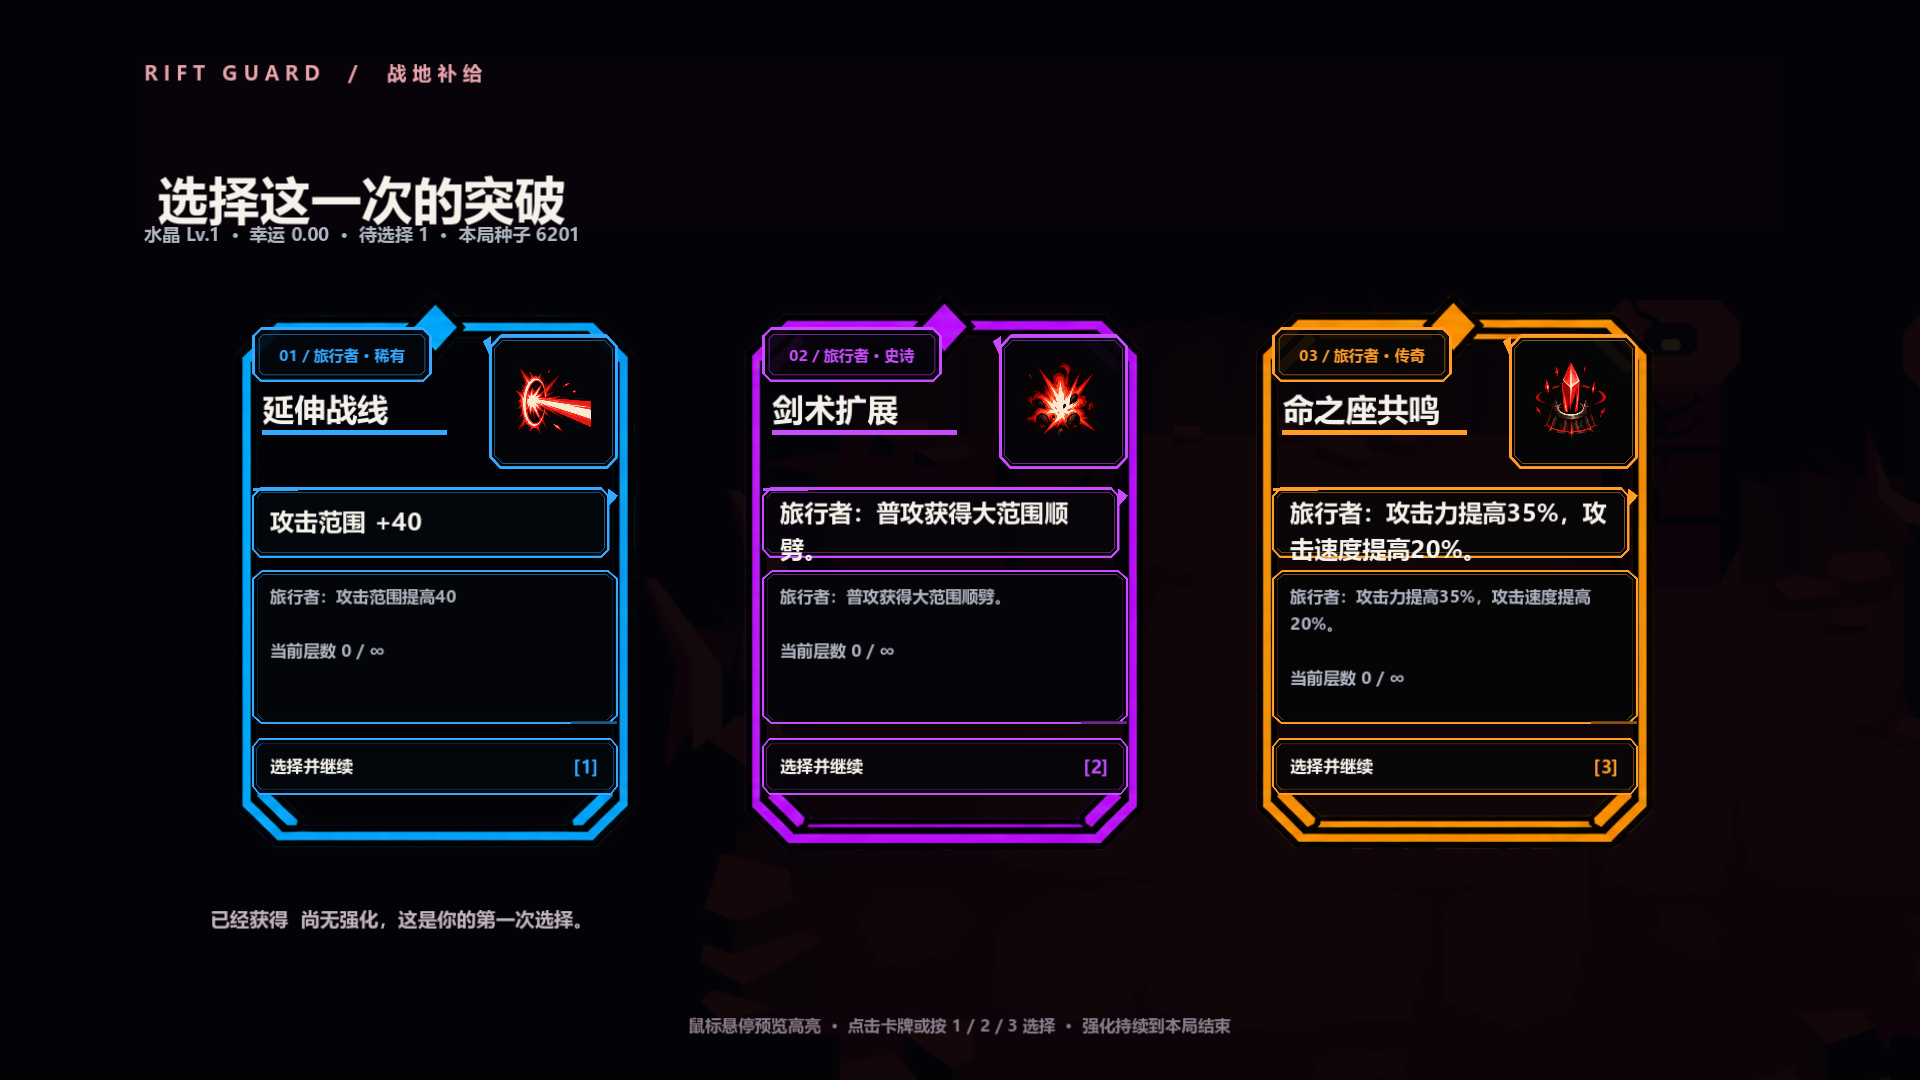
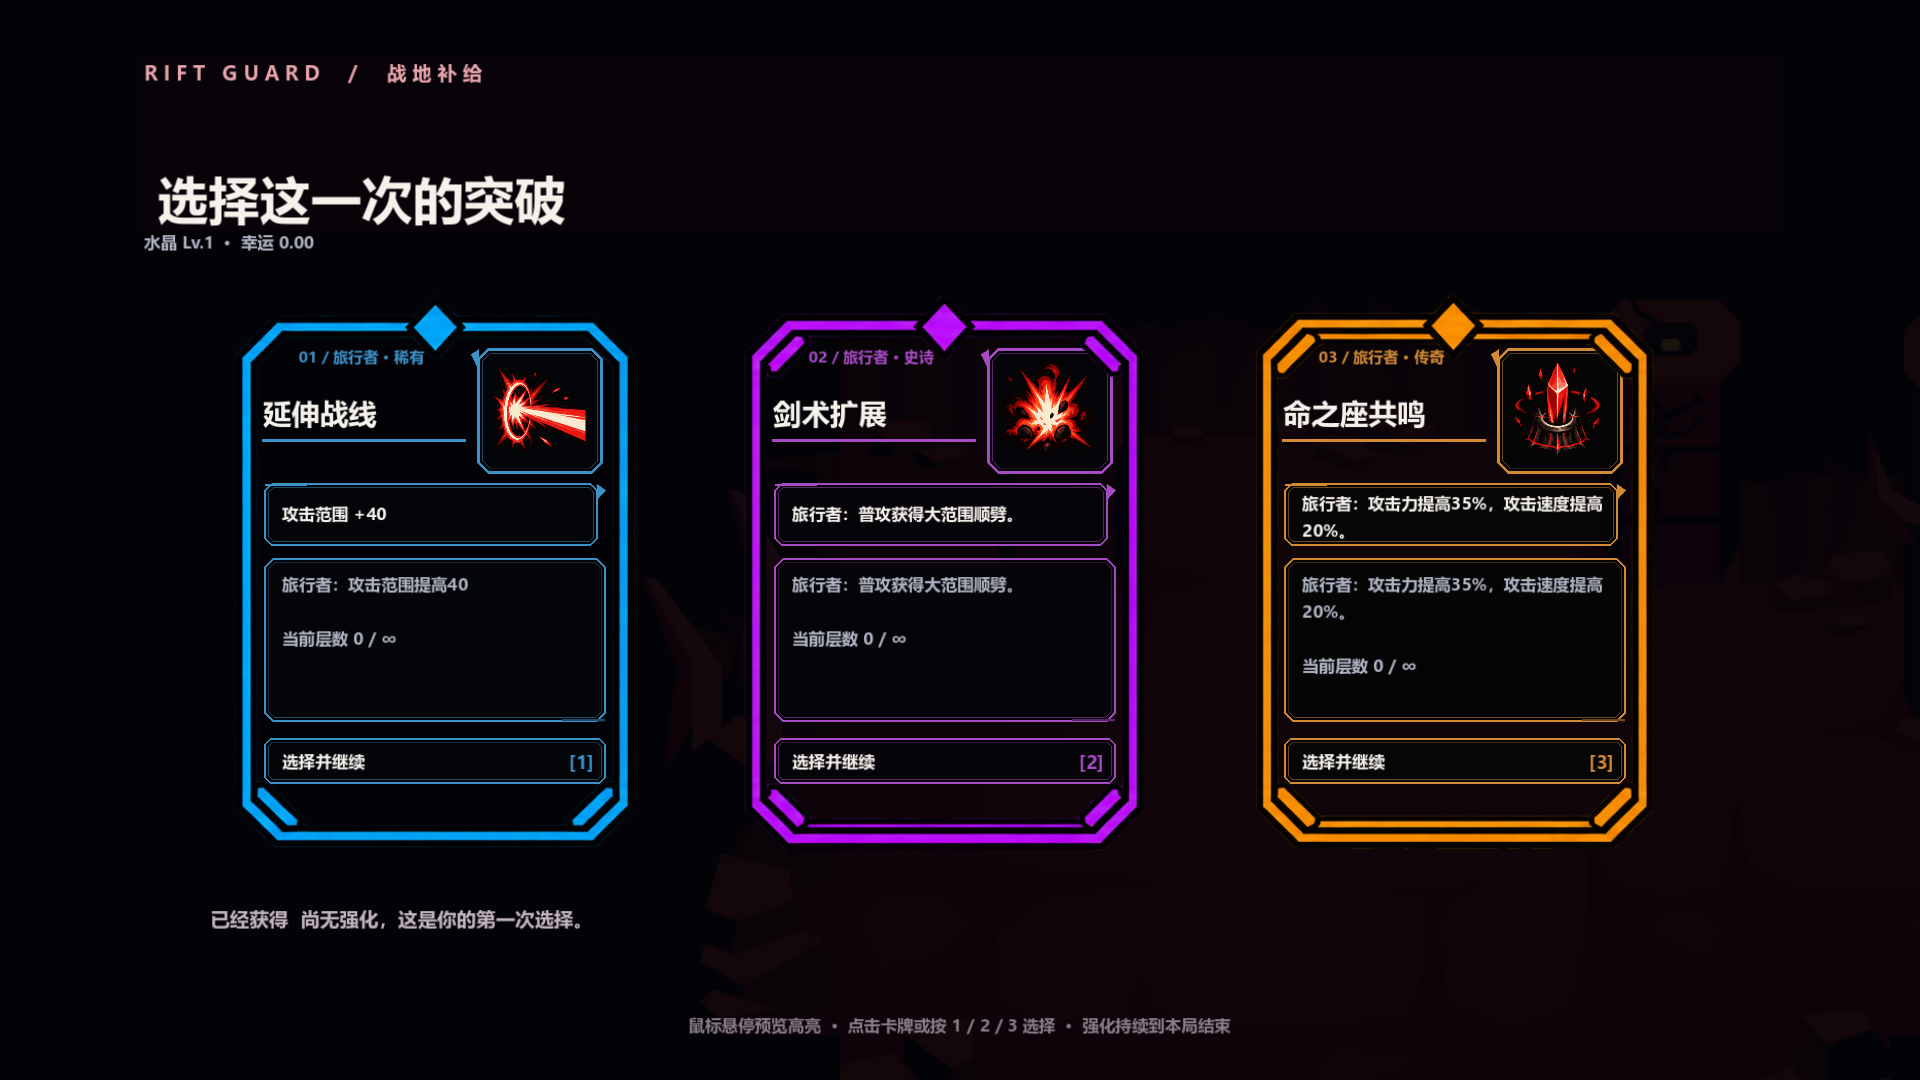
feat: finalize reward UI and lock unfinished characters

diff --git a/README.md b/README.md
@@ -1,238 +1,62 @@
 # 裂隙守望 · Rift Guard
 
-《裂隙守望》是一款多角色路线防守、Roguelike 构筑与分支剧情结合的 2.5D 游戏原型。
+《裂隙守望》是一款将多角色路线防守、Roguelike 构筑与分支剧情结合的 2.5D 动作防守游戏。工程以 Godot 4 制作，运行与验收规格为 1920×1080。
 
-## 当前玩法
+## 当前界面
 
-- 普通模式包含八个关卡，敌人沿多条路线进攻，关卡结束后触发剧情、角色解锁与下一关入口。
-- 无尽模式使用四屏地图，敌人从边缘持续追击，角色随旅行者移动并自动攻击。
-- 每次升级三选一强化，卡牌可无限叠加并形成弹道、召唤、反应、护盾与支援联动。
-- 十三名角色拥有独立主动技能、终结技、能量与冷却，Q/E 支持圆形范围和落点预览。
-- 敌人包含近战、远程、飞行、护盾、增益与史莱姆家族，并配置六名三阶段 Boss。
-- 火、水、雷、冰、风、岩元素参与反应，旅行者可在局内选择元素并通过高阶卡牌获得双元素。
+模式选择、关卡选择、编队、角色档案、剧情和三选一增益已统一为红黑视觉体系。界面素材保持原始宽高比，按钮、卡片与内部信息遵循安全边距。
 
-## V61 Helltaker素材化菜单与角色档案
+![模式选择](docs/v61-validation/01-mode-select.png)
 
-V61将模式、选关、编队和角色档案按指定素材重新绑定：模式卡、关卡卡、检查点、无尽入口和底部按钮均使用对应Helltaker素材及明确的灰/红焦点状态；角色预览保持原始比例，档案页展示十三名角色各自的Q/E效果与数值。
+![关卡选择](docs/v61-validation/02-stage-select.png)
 
-![V61 模式与选关](docs/v61-validation/contact-sheet.jpg)
+![剧情界面](docs/v61-validation/05a-dialogue-booper.png)
 
-- V61发布说明：[V61-RELEASE-NOTES.md](docs/V61-RELEASE-NOTES.md)
-- Windows发布包：`builds/rift-guard-v61/RiftGuard-V61.exe`
+![三选一增益](docs/v62-reward-validation/01-reward-default.png)
 
-## V60 全页面UI与角色详情
+## 角色界面
 
-V60统一重做模式、选关、编队、角色详情、剧情、暂停和战斗底栏。所有主要容器改用等比例或代码绘制的红黑面板，选关缩略图使用真实战斗截图，选角支持滚轮与breath动画详情，剧情改为点击画面推进并加入booper动态提示。
+当前具有正式立绘和动作素材的可用角色为：旅行者、少女、希露菲、芙宁娜、艾米莉亚、丰川祥子、阿米娅。缺少正式立绘或动作素材的角色保持未解锁，旧存档也不会绕过该限制。
 
-![V60 模式选择](docs/v60-validation/01-mode-select.png)
+![角色编队](docs/v61-validation/03-squad-scroll.png)
 
-![V60 角色详情](docs/v60-validation/04-character-detail.png)
+![角色档案](docs/v61-validation/04-character-detail.png)
 
-![V60 剧情推进](docs/v60-validation/05a-dialogue-booper.png)
+## 战斗
 
-- V60发布说明：[V60-RELEASE-NOTES.md](docs/V60-RELEASE-NOTES.md)
-- Windows发布包：`builds/rift-guard-v60/RiftGuard-V60.exe`
-## V59 战斗UI与剧情死亡反馈
+普通模式包含路线防守、可交互地形、Boss 阶段和关卡推进；无尽模式支持四屏地图、动态刷怪、角色独立移动与屏外单位降频模拟。Q/E 技能显示冷却和能量状态，角色普通攻击、技能和元素反应使用独立反馈。
 
-V59 重构了1920×1080战斗界面：顶部压缩为连续状态带，怪物数量改为中央小型徽标，底部改为单层指令台；角色卡、Q/E技能框、选队确认按钮、剧情选项框和Boss警告装饰均保持素材原始比例，不再通过任意宽高拉伸填充。
+![战斗 HUD](docs/v61-validation/06-battle-hud.png)
 
-无尽模式使用8种Helltaker地板模块和Boss契约地板进行确定性拼接，继续沿用石墙与可破坏大门。剧情系统支持在选项中配置`death_reason`：错误选择播放`dialogueDeathExport0001-0009`死亡序列、显示死亡原因，然后返回原来的两个选项。
+![无尽模式地图](docs/v61-validation/08-endless-map.png)
 
-![V59 战斗HUD验收](docs/v59-validation/campaign-compact-counter.png)
+## 地图与怪物
 
-![V59 剧情选项验收](docs/v59-validation/dialogue-choice-frames.png)
+第一关使用蒙德草地、七天神像、高台、沼泽、自动机关和可破坏栅栏；后续关卡保持暗色格子主题。敌人包含史莱姆、丘丘人、弓箭手、萨满、哥布林、哥布林茅房、大型怪物与多阶段 Boss。
 
-- V59发布说明：[V59-RELEASE-NOTES.md](docs/V59-RELEASE-NOTES.md)
-- V59 UI尺寸规范：[V59-UI-SPEC.md](docs/V59-UI-SPEC.md)
-- Windows发布包：`builds/rift-guard-v59/RiftGuard-V59.exe`
-## V58 无尽模式休眠优化与角色战斗差异
+![第一关蒙德地形](docs/v56-validation/stage01-mondstadt-terrain.png)
 
-V58 将屏外普通敌人从逐帧/半帧更新改为 5Hz 粗粒度推进：敌人仍会接近战场，但屏外不再持续执行完整寻路、特殊 AI 和表现事件；弹道目标改为常数时间索引，屏外命中事件在分配特效前直接丢弃。120 个以屏外为主的敌人专项基准降至约 7.28–9.90ms/帧。
+![角色与怪物](docs/v51-validation/new-characters-and-monsters.png)
 
-无尽模式现在只有全队全部阵亡才会结束。三名角色均可独立选择并移动；手动移动非旅行者后会保持其独立目标，只有玩家选中并移动旅行者时，其他角色才恢复延迟跟随。
-
-十三名角色加入差异化普通攻击模板，包括剑气斩、冰晶穿透、风种连锁、水泡溅射、重型潮汐弹、音符回响、术式贯穿、冻结花、量子门、Mon3tr 重击与以太连锁。攻击和命中音量提高，弹道、枪口与命中特效按角色攻击类型分层表现，并继续遵守高密度特效预算。
-
-![V58 战斗特效验收](docs/v58-validation/combat-effects.png)
-
-- V58 发布说明：[V58-RELEASE-NOTES.md](docs/V58-RELEASE-NOTES.md)
-- Windows 发布包：`builds/rift-guard-v58/RiftGuard-V58.exe`
-## V57 第一关地图定稿与无尽模式性能升级
-
-V57 完成第一关蒙德战场的视觉与交互校准：草地和代码网格只覆盖战斗区域，区域外恢复简洁暗色背景；七天神像、高台、自动机关和木栅栏取消不自然的椭圆阴影，七天神像下移并保持血条位置不变；浮空平台移除，两座木栅栏统一为可破坏阻挡物，灌木碰撞改为贴合有效图形的不规则近似区域。
-
-敌人界面移除“空”“远”和无意义的翅膀、横线等装饰，只保留护盾与增益等有战斗意义的标识。无尽模式加入动态人口预算、低阶怪收缩、高阶怪权重增长、分阶段生命与伤害倍率、屏外单位降频模拟、寻路缓存、支援光环降频扫描和屏外特效裁剪；后期通过提高怪物质量形成压力，不再只依靠无限增加低级怪物数量。
-
-![V57 第一关地图验收](docs/v57-map-review/stage01-map-review.png)
-
-- V57 发布说明：[V57-RELEASE-NOTES.md](docs/V57-RELEASE-NOTES.md)
-- V57 历史发布包已由 V58 替换。
-## V56 第一关蒙德战场与地形机制修整
-
-V56 将蒙德素材严格限制在 `stage_01`；`stage_02`、`stage_03` 及后续关卡恢复 V53 的暗色格子渲染和原始地形表现。第一关草地改为不透明地面，网格由代码绘制，蒙德背景只保留为远景层，并通过独立 CanvasItem Shader 统一饱和度、对比度和远景雾化。
-
-七天神像在 V55 基础上放大 1.6 倍并保持脚底锚点；高台、移动平台、灌木、木障碍、自动机关和角色阴影全部重新贴地。两座木障碍均会阻挡角色和地面怪物，可被战技破坏；沼泽减速 28%，高台提供伤害与射程加成，移动平台会承载角色并提供射程强化，自动机关在角色靠近后每 5.5 秒进行一次超远程攻击。
-
-![V56 第一关蒙德地形](docs/v56-validation/stage01-mondstadt-terrain.png)
-
-![V56 第二关原始格子风格](docs/v56-validation/stage02-original-grid.png)
-
-- V56 发布说明：[V56-RELEASE-NOTES.md](docs/V56-RELEASE-NOTES.md)
-- V56 历史发布包已由 V57 替换。
-## V55 战斗顶部 HUD 与第一章地图重构
-
-V55 撤回上一版的全屏地图铺法：蒙德背景和无网格草地只绘制在 `battle_playfield_rect` 战场框内，角色、脚底阴影、地形与碰撞恢复共用原有 2.5D 投影。网格改为代码生成，强度独立于草地素材；风神像核心缩小，高台、洼地、灌木和木障碍重新回到战场层级。
-
-顶部 HUD 重做为一条完整红黑信息带，品牌、等级、经验、元素、幸运、时间、基地、护盾、波次、击退数和状态分区对齐；暂停按钮改为同套红黑样式，怪物数量继续使用中央小徽章，避免遮挡战斗画面。
-
-![V55 战斗 HUD 与地图](docs/v55-validation/chapter1-stage01.png)
-
-- V55 发布说明：[V55-RELEASE-NOTES.md](docs/V55-RELEASE-NOTES.md)
-- V55 历史发布包已由 V56 替换。
-## V54 第一章蒙德地图首轮替换
-
-V54 将第一章 stage_01 至 stage_03 替换为蒙德城郊视觉：远景使用 1920×1080 蒙德背景，32×18 草地网格按素材拼接基准投射为 2.5D 战场，高台、洼地、灌木、木障碍和风神像核心均接入现有碰撞与地形逻辑。第二章与无尽模式保持原样。
-
-战斗顶部同时改用独立 Logo 与九宫格状态条，等级、经验、元素、幸运、时间、基地生命和护盾改为单行显示，怪物数量收进小型居中徽章。
-
-![V54 第一章地图](docs/v54-validation/chapter1-stage01.png)
-
-- V54 发布说明：[V54-RELEASE-NOTES.md](docs/V54-RELEASE-NOTES.md)
-- V54 历史发布包已由 V55 替换。
-## V53 战斗 HUD、Boss 演出与敌人逻辑升级
-
-V53 将顶部三段敌情条收成中央小型敌情牌，队伍生命/能量条完整收进角色卡；Boss 使用更厚的风格化血条、红色场景染色与入场预警演出。近战敌人不再显示攻击范围，丘丘弓箭手射程降低且箭矢飞抵真实落点；高密度特效按空间合并但保留全部伤害，刷怪编队和墙门寻路也已重构。
-
-剧情正文取消打字机，改为整段文字轻微放大后回落；小字与数值改用规整半粗字体，Helltaker 风格装饰字体仅用于大标题、关卡与 Boss。
-
-![V53 紧凑敌情牌](docs/v53-validation/battle-compact-forecast.png)
-
-![V53 Boss 入场](docs/v53-validation/battle-boss-hud.png)
-
-![V53 剧情选项](docs/v53-validation/dialogue-instant-choice.png)
-
-- V53 发布说明：[V53-RELEASE-NOTES.md](docs/V53-RELEASE-NOTES.md)
-- Windows 发布包：`builds/rift-guard-v53/RiftGuard-V53.exe`
-
-## V52 战斗表现、性能与音频修整
-
-V52 移除芙宁娜全部旧运行时素材，只保留 `hero_03` 新帧序列；旅行者与芙宁娜放大至 106%，希露菲恢复原尺寸，皮卡超人提升为 3.75 倍大型单位。键盘移动不再生成点击标记，队友改为沿旅行者历史轨迹延迟跟随，底部角色生命条与能量条进一步压窄。
-
-无尽模式限制低级怪物和哥布林茅房数量，强化高压阶段的敌人质量、寻路绕墙与特效预算。哥布林茅房单次只生成一个哥布林且不会贴边出现。攻击、命中、关卡进入、对话和菜单交互均接入对应音效。Boss 血条改为顶部居中的紧凑布局，宽 560、高 46，实际生命填充条高 9 像素，并可在 `ui_layout_profile.tres` 中继续手动调整。
-
-![V52 紧凑 Boss 血条验收](docs/v52-validation/compact-boss-hud.png)
-
-- V52 发布说明：[V52-RELEASE-NOTES.md](docs/V52-RELEASE-NOTES.md)
-- V52 历史发布包已由 V54 替换。
-
-## V51 三角色与八类怪物全序列动画
-
-V51 将芙宁娜、丰川祥子和艾米莉亚的待机、奔跑、攻击、死亡素材完整接入 24 FPS 动画系统，并将希露菲缩小至原尺寸的 95%。木棍丘丘人、哥布林、铁桶僵尸、丘丘弓箭手、丘丘萨满、野猪骑士、皮卡超人和哥布林茅房也已使用新序列帧；弓箭手和萨满拥有独立远程弹道，皮卡超人为 2.5 倍大型慢速重甲单位，哥布林茅房会定时生产哥布林。
-
-火、雷、风、水、冰史莱姆与史莱姆王已使用正式中文名称。全角色初始攻击范围及纵向覆盖得到提升，普通模式地图投影向左右扩展，绘制范围、命中判定和鼠标反投影保持一致。
-
-![V51 新角色与怪物验收](docs/v51-validation/new-characters-and-monsters.png)
-
-- 角色和怪物素材位置：[V51 素材位置与替换表](docs/V51-ASSET-MAP.md)
-- V51 发布说明：[V51-RELEASE-NOTES.md](docs/V51-RELEASE-NOTES.md)
-- Windows 发布包：`builds/rift-guard-v51/RiftGuard-V51.exe`
-## V50 动态角色数据、底部战斗 HUD 与无尽迷宫
-
-V50 将角色强化卡的姓名和描述绑定到角色数据库，角色替换或改名后会自动更新卡牌文本。战斗角色栏改为底部横向三卡结构，HP 与能量条压缩，Q/E 和构筑信息集中在底部，战场横向扩展到接近全屏宽度；四名已替换角色的 HUD 图标直接读取素材清单中的真实立绘。
-
-无尽模式加入由关卡数据驱动的墙网、丁字路口、十字路口、双向回廊、高台、洼地和四座独立可破坏门。角色、地面怪物及其远程攻击均不能穿墙，飞行怪物保持越障特性；门拥有独立生命值，需要连续使用战技或终结技破坏后才能通行。
-
-![V50 无尽迷宫与底部 HUD 验收](docs/v50-validation/endless-junctions-bottom-hud.png)
-
-- 地形配置：`game/data/v2/stages.json` 的 `stage_endless.terrain`
-- 独立墙体与门素材：`game/assets/world/endless/`
-- UI 布局数据：`game/data/ui_layout_profile.tres`
-- V50 发布说明：`docs/V50-RELEASE-NOTES.md`
-## V49 四角色全序列动画
-
-V49 使用用户提供的透明帧序列替换少女、希露菲、旅行者和阿米娅的待机、奔跑、攻击与死亡表现。全部源帧均进入图集，默认 24 FPS；待机、奔跑和攻击循环播放，死亡播放一次并停在最后一帧。编队角色卡同步播放真实呼吸序列，角色名单补回少女并扩展为十三人。
-
-![V49 角色动画视觉验收](docs/v49-validation/V49-character-animation-contact-sheet.jpg)
-
-- 动画清单：`game/data/v2/character_sequences.json`
-- 可替换图集：`game/assets/characters/sequences/`
-- 重新打包脚本：`tools/build_character_sequence_atlases.py`
-- V49 发布说明：`docs/V49-RELEASE-NOTES.md`
-
-## V48 七层地图与 V46 UI 实验台
-
-V48 将八个普通关卡拆为背景、气氛、地面、路线、地形、建筑和前景七层，并为前哨、回廊、母巢、空桥、熔炉、钟楼、冰原和蚀日围城建立独立主题；V46 的八页 Godot UI 实验台继续保留。
-
-![V48 地图视觉验收](docs/v48-validation/V48-map-contact-sheet.jpg)
-
-- [图文指导书（PDF，可下载）](output/pdf/Rift-Guard-UI-Visual-Editing-Guide.pdf)
-- [图文指导书（Markdown，适合在 GitHub 阅读）](docs/UI-VISUAL-EDITING-GUIDE.md)
-- [Godot UI 素材与布局操作手册](docs/UI-GODOT-EDITING-MANUAL.md)
-
-![模式选择](docs/ui-editing-guide/images/mode-annotated.jpg)
-
-![剧情分支](docs/ui-editing-guide/images/dialogue-annotated.jpg)
-
-![战斗界面](docs/ui-editing-guide/images/campaign_battle-annotated.jpg)
+![怪物图鉴](docs/v51-validation/monster-compendium.png)
 
 ## 运行
 
-- Windows 发布包：`builds/rift-guard-v53/RiftGuard-V53.exe`
 - Godot 工程：`game/project.godot`
-- 发布规格（窗口与验收截图）：1920×1080
-- UI 实验台逻辑坐标：1280×720（运行时按 1.5 倍等比缩放）
+- 设计与验收分辨率：`1920×1080`
+- UI 实验台逻辑坐标：`1280×720`，运行时等比缩放
+- Windows 发布包：`builds/rift-guard-v61/RiftGuard-V61.exe`
+
+使用 Godot 4.4.1 打开工程后运行主场景即可。UI 布局与素材替换方法见 [Godot UI 编辑手册](docs/UI-GODOT-EDITING-MANUAL.md)。
 
 ## 操作
 
-- WASD：移动当前角色
+- `WASD`：移动当前角色
 - 鼠标右键：移动或取消技能瞄准
-- 1/2/3：切换角色
-- Q：主动技能
-- E：终结技
-- Space：暂停
-- F2：图鉴
-- F4：关卡选择
-- F6：剧情预览
-- F7：特效预览
-- F10：设置
-
-## UI 与剧情编辑
-
-### 可以手动调整的界面
-
-UI 实验台目前覆盖八类运行界面：
-
-1. `Dialogue`：剧情立绘、姓名、正文、两个分支选项框和底部操作区。
-2. `Mode`：普通模式、无尽模式、存档区和设置入口。
-3. `Mission`：关卡标题、八张关卡卡片、缩略图、状态和无尽入口。
-4. `Squad`：角色选择面板、角色卡网格、呼吸动画预览和确认按钮。
-5. `Campaign Battle`：普通战斗地图可视区、波次、右侧角色栏和 Q/E 技能格。
-6. `Endless Battle`：无尽战斗四屏地图视口、角色栏、强化栏和 Q/E 技能格。
-7. `Reward`：三选一强化卡、卡牌标签、标题、说明和构筑历史。
-8. `Settings`：音量滑杆、全屏、减弱震屏、重置和关闭按钮。
-
-### 在 Godot 中修改布局
-
-1. 使用 Godot 4.4.1 打开 `game/project.godot`。
-2. 打开“项目 → 项目设置 → 插件”，确认 **Rift Guard UI Lab** 已启用。
-3. 在右侧 **UI 实验台**点击“打开实验台场景”，然后选择要调整的页面。
-4. 在 2D 视口拖动红色半透明框修改位置，拖角点修改尺寸；也可以在 Inspector 精确填写 `Position` 和 `Size`。
-5. 点击“校验并写回”，再运行对应界面确认效果；点击“刷新 / 撤销未写回”可放弃尚未保存的调整。
-
-工程内部坐标为 1280×720，发布窗口为 1920×1080。将实机截图上的位移除以 1.5 即可换算为 Profile 坐标，例如截图向右移动 30 px，Profile 的 x 增加 20。
-
-### 替换 UI 素材
-
-UI 坐标的唯一数据源是 `game/data/ui_layout_profile.tres`，UI 贴图绑定的唯一数据源是 `game/data/ui_skin_profile.tres`，自定义透明素材放在 `game/assets/ui/custom/`。
-
-将透明 PNG 放入 `game/assets/ui/custom/` 后，可以直接在 `ui_skin_profile.tres` 的 Inspector 中把图片拖到对应 `Texture2D` 字段；也可以在实验台选中 `Skin_字段名`，替换 `Texture` 后点击“校验并写回”。框体素材应保留完整四角和透明边距，需要伸缩的面板优先使用适合九宫格的图片。
-
-Godot 右侧的“UI 实验台”可编辑 Dialogue、Mode、Mission、Squad、Campaign Battle、Endless Battle、Reward、Settings 和 Stage；完整操作见 [UI 手动编辑图文指导书](docs/UI-VISUAL-EDITING-GUIDE.md) 与 [Godot UI 素材与布局操作手册](docs/UI-GODOT-EDITING-MANUAL.md)。
-
-剧情姓名、正文、人物素材、左右/上下位置、缩放与翻转由 `content/game_config.xlsx` 管理。战场地形、地板、前景遮挡和关卡色板使用 `game/data/stage_visual_profile.tres`，攻击特效使用 `game/assets/vfx/`，技能图标使用 `game/assets/ui/icons/`。
-
-## 素材
-
-项目当前混合使用 Helltaker 风格界面资源、用户提供角色素材、Kenney 素材与第三方透明特效素材；各第三方资源的许可证文件保存在对应素材目录。
-
-
+- `1 / 2 / 3`：切换角色
+- `Q`：主动技能
+- `E`：终结技
+- `Space`：暂停
+- `F2`：图鉴
+- `F4`：关卡选择
+- `F10`：设置
